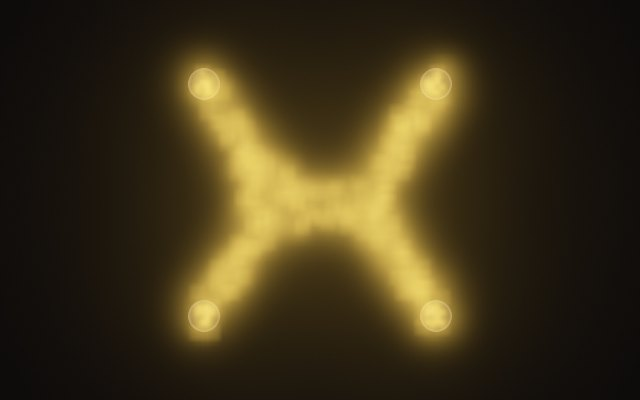
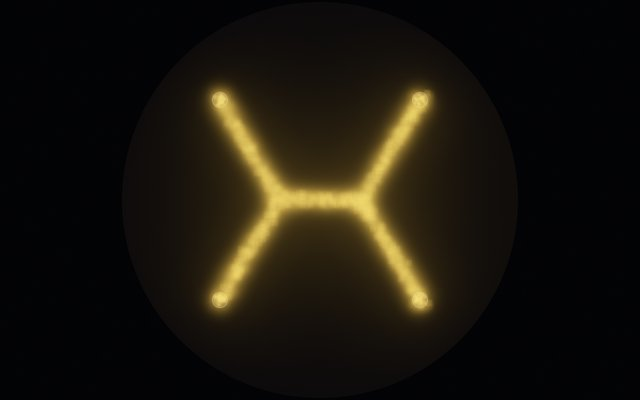
Move Steiner tree's foods to a square half as wide as the dish
On Jones' lattice of 200 x 200 cells the foods of before, a square 0.29
of the dish wide, kept a ring of trail in 5 of 10 runs up to step
30,000, and the other runs ended with bridges shorter than those of the
shortest tree. Jones' positions are not in the text, so they are this
app's choice. A square half as wide as the dish ends as the Steiner tree
in 10 of 10 runs from step 6,000, with two three-way junctions and a
bridge of 40 to 50 cells, 0.42 of the side as in the shortest tree. The
scene's text and the README image follow.

diff --git a/src/model/presets.ts b/src/model/presets.ts
@@ -259,18 +259,19 @@ PRESETS.push(
     source: 'Jones 2010, Fig. 19',
     summary: 'Four food sources: the network shrinks to a short tree that joins them all.',
     watch:
-      'A loose network wraps around the four food sources, then contracts. It ends as two three-way junctions joined by a short bridge, where paths meet at about 120° as in soap films (Plateau’s laws). The bridge runs across or along the screen, and a tail to the rim can stay for a few thousand steps.',
+      'A loose network wraps around the four food sources, then contracts. It ends as two three-way junctions joined by a bridge, where paths meet at about 120° as in soap films (Plateau’s laws). As in the shortest tree, the bridge is about 0.4 of the side of the square, across or along it.',
     about:
       'The same setup with four food sources at the corners of a square. The network shrinks until it joins all four with little material, close to a Steiner tree: the shortest network that connects a set of points, with extra junctions where three paths meet (p. 144). Different runs take different routes but end in similar trees.',
     strainRoles: ['Jones’ contracting agent, drawn to food'],
-    why: 'Jones’ values for Fig. 19 (p. 146): as many agents as 2 % of the square around the dish, which is about 2.5 % of the dish, sensor and rotation angle 45°, one agent per cell, food weight 0.01, 200 × 200 cells. With fewer agents loops and tails to the rim stay for thousands of steps longer.',
+    why: 'Jones’ values for Fig. 19 (p. 146): as many agents as 2 % of the square around the dish, which is about 2.5 % of the dish, sensor and rotation angle 45°, one agent per cell, food weight 0.01, 200 × 200 cells. The food positions are this app’s choice: a square half as wide as the dish. On a smaller square a ring of trail stays.',
     settings: () =>
       jones(
         { sensorAngle: 45, rotationAngle: 45, sensorOffset: 9 },
         { lattice: L200(), density: 0.02, boundary: 'dish', foodStrength: 0.01 },
       ),
-    // A square with the corners as far from the centre as the 0.32 × 0.26 rectangle of before.
-    env: [food(-0.145, -0.145, 0.02), food(0.145, -0.145, 0.02), food(-0.145, 0.145, 0.02), food(0.145, 0.145, 0.02)],
+    // A square half as wide as the dish (ADR 0026): on Jones' lattice the network ends as the Steiner tree in 10 of 10
+    // runs. The square of before (0.29 of the dish wide) kept a ring of trail in 5 of 10, a smaller one in 9 of 10.
+    env: [food(-0.25, -0.25, 0.02), food(0.25, -0.25, 0.02), food(-0.25, 0.25, 0.02), food(0.25, 0.25, 0.02)],
   },
   {
     id: 'shrinking',

diff --git a/src/model/presets.test.ts b/src/model/presets.test.ts
@@ -213,7 +213,9 @@ describe('presets', () => {
     const side = Math.abs(foods[0]?.at[0] ?? 0);
     for (const f of foods) expect(f.at.map(Math.abs)).toEqual([side, side]);
     expect(p.about).toMatch(/corners of a square/);
-    expect(p.watch).toMatch(/two three-way junctions joined by a short bridge/);
+    expect(p.watch).toMatch(/two three-way junctions joined by a bridge/);
+    // A square half as wide as the dish (ADR 0026): on Jones' lattice it ends as the Steiner tree in 10 of 10 runs.
+    expect(side).toBe(0.25);
   });
 
   it('have one strain role per strain', () => {
